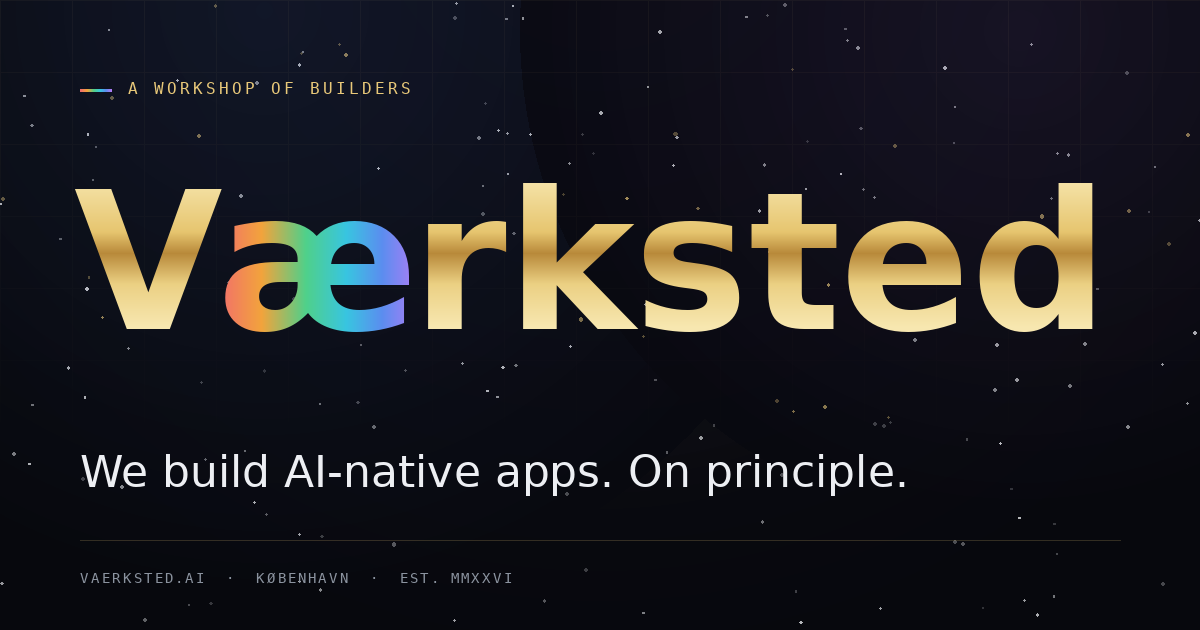
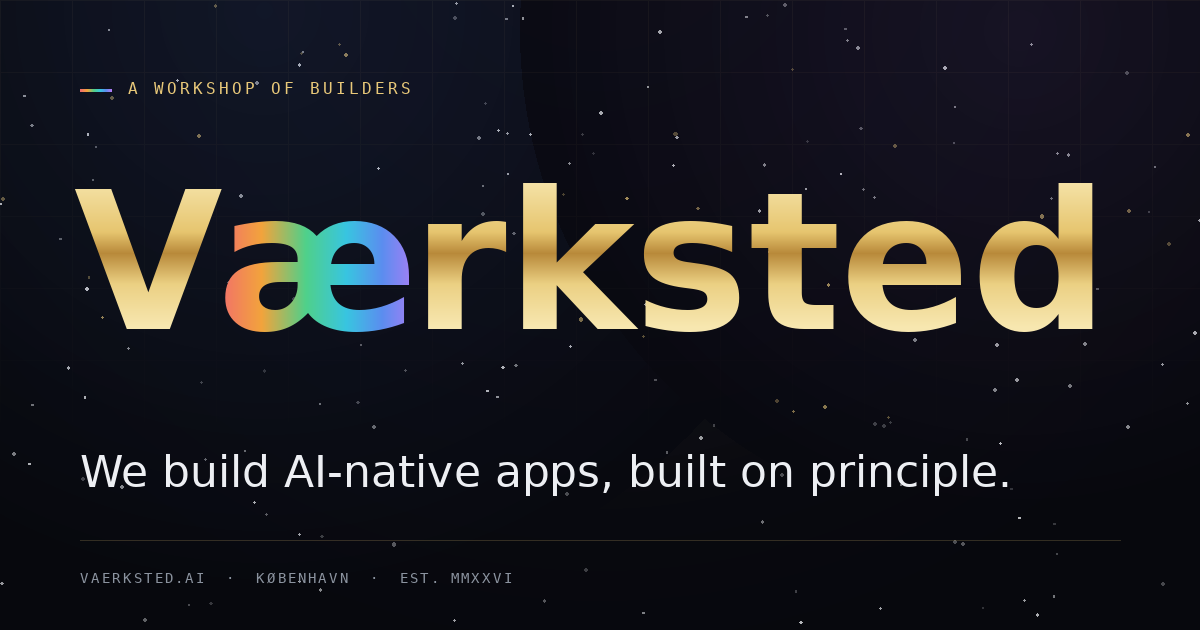
Reword tagline to "We build AI-native apps, built on principle"
The previous "On principle." read as the idiom for refusing something out
of conviction, not "founded on principles." "built on principle" means
founded upon — fixing the idiom while keeping the nod to the Principles
section. Updated across title, meta/OG/Twitter tags, structured data, the
hero tagline, manifest, the OG image (svg + regenerated png) and render_og.py.

Claude-Session: https://claude.ai/code/session_012UaTwAD29MH4QA4UeJnQDX

Changed region(s): [[0.5242, 0.7238, 0.8325, 0.7841]]

diff --git a/index.html b/index.html
@@ -5,7 +5,7 @@
   <meta name="viewport" content="width=device-width, initial-scale=1.0">
 
   <!-- Primary -->
-  <title>Værksted — We build AI-native apps. On principle.</title>
+  <title>Værksted — We build AI-native apps, built on principle.</title>
   <meta name="description" content="Værksted is a workshop of builders making AI-native apps. Privacy by default. No data brokerage. Simplicity. Design is how it works.">
   <meta name="keywords" content="AI-native apps, privacy-first software, Værksted, Maskin, Skjald, Saga, Sindre, Hugin, Copenhagen, product development, agentic software">
   <meta name="author" content="Værksted">
@@ -29,22 +29,22 @@
   <!-- Open Graph -->
   <meta property="og:type" content="website">
   <meta property="og:site_name" content="Værksted">
-  <meta property="og:title" content="Værksted — We build AI-native apps. On principle.">
+  <meta property="og:title" content="Værksted — We build AI-native apps, built on principle.">
   <meta property="og:description" content="A workshop of builders making AI-native apps. Privacy by default. No data brokerage. Simplicity. Design is how it works.">
   <meta property="og:url" content="https://vaerksted.ai/">
   <meta property="og:image" content="https://vaerksted.ai/og-image.png">
   <meta property="og:image:type" content="image/png">
   <meta property="og:image:width" content="1200">
   <meta property="og:image:height" content="630">
-  <meta property="og:image:alt" content="Værksted — we build AI-native apps. On principle.">
+  <meta property="og:image:alt" content="Værksted — we build AI-native apps, built on principle.">
   <meta property="og:locale" content="en_DK">
 
   <!-- Twitter -->
   <meta name="twitter:card" content="summary_large_image">
-  <meta name="twitter:title" content="Værksted — We build AI-native apps. On principle.">
+  <meta name="twitter:title" content="Værksted — We build AI-native apps, built on principle.">
   <meta name="twitter:description" content="A workshop of builders making AI-native apps. Privacy by default. No data brokerage. Simplicity. Design is how it works.">
   <meta name="twitter:image" content="https://vaerksted.ai/og-image.png">
-  <meta name="twitter:image:alt" content="Værksted — we build AI-native apps. On principle.">
+  <meta name="twitter:image:alt" content="Værksted — we build AI-native apps, built on principle.">
 
   <!-- Fonts -->
   <link rel="preconnect" href="https://fonts.googleapis.com">
@@ -115,7 +115,7 @@
         "@id": "https://vaerksted.ai/#website",
         "url": "https://vaerksted.ai/",
         "name": "Værksted",
-        "description": "We build AI-native apps. On principle.",
+        "description": "We build AI-native apps, built on principle.",
         "inLanguage": "en",
         "publisher": { "@id": "https://vaerksted.ai/#organization" }
       }
@@ -638,7 +638,7 @@
       <div class="eyebrow">A workshop of builders</div>
       <h1 class="wordmark">V<span class="ae">æ</span>rksted</h1>
       <div class="runes" aria-label="Værksted in Elder Futhark runes" title="Værksted · Elder Futhark">ᚹᚨᚱᚲᛊᛏᛖᛞ</div>
-      <p class="tagline">We build AI-native apps. On principle.</p>
+      <p class="tagline">We build AI-native apps, built on principle.</p>
       <p class="blurb">
         Værksted is Danish for <em>workshop</em>. The apps we make share an infrastructure, a naming tradition rooted in Old Norse, and a spectrum borrowed from the <em>Bifröst</em> — the rainbow bridge Heimdal guards, one hue per app. And the principles below — written down because we mean them, not because the brand book required a values page.
       </p>

diff --git a/render_og.py b/render_og.py
@@ -189,7 +189,7 @@ img.paste(gold_img, (0, 0), rk_mask)
 draw = ImageDraw.Draw(img, "RGBA")
 
 # ─── Tagline ────────────────────────────────────────
-draw.text((80, 446), "We build AI-native apps. On principle.", fill=FROST, font=tagline_font)
+draw.text((80, 446), "We build AI-native apps, built on principle.", fill=FROST, font=tagline_font)
 
 # ─── Footer rule + meta ─────────────────────────────
 draw.line((80, 540, 1120, 540), fill=(*GOLD, 50), width=1)
